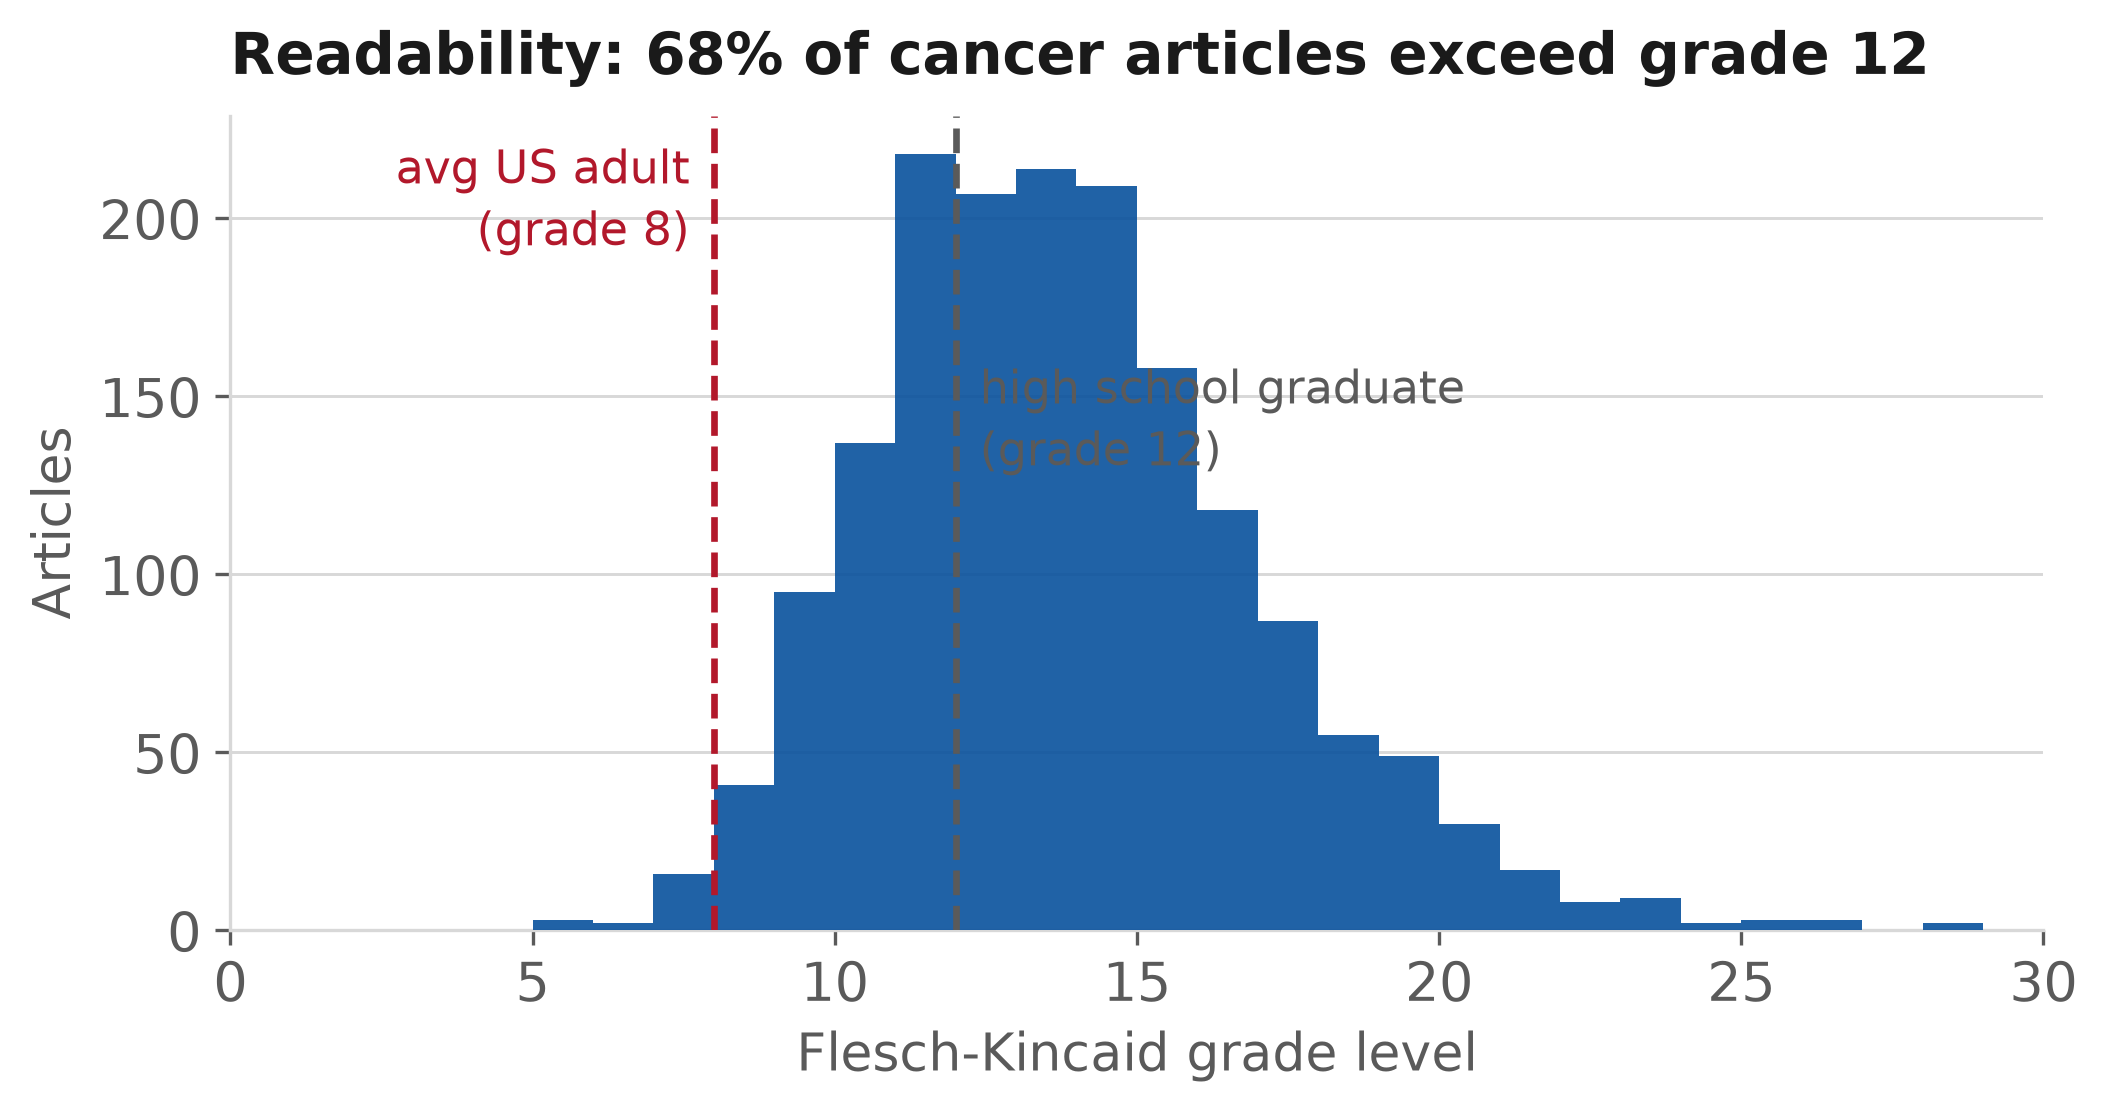
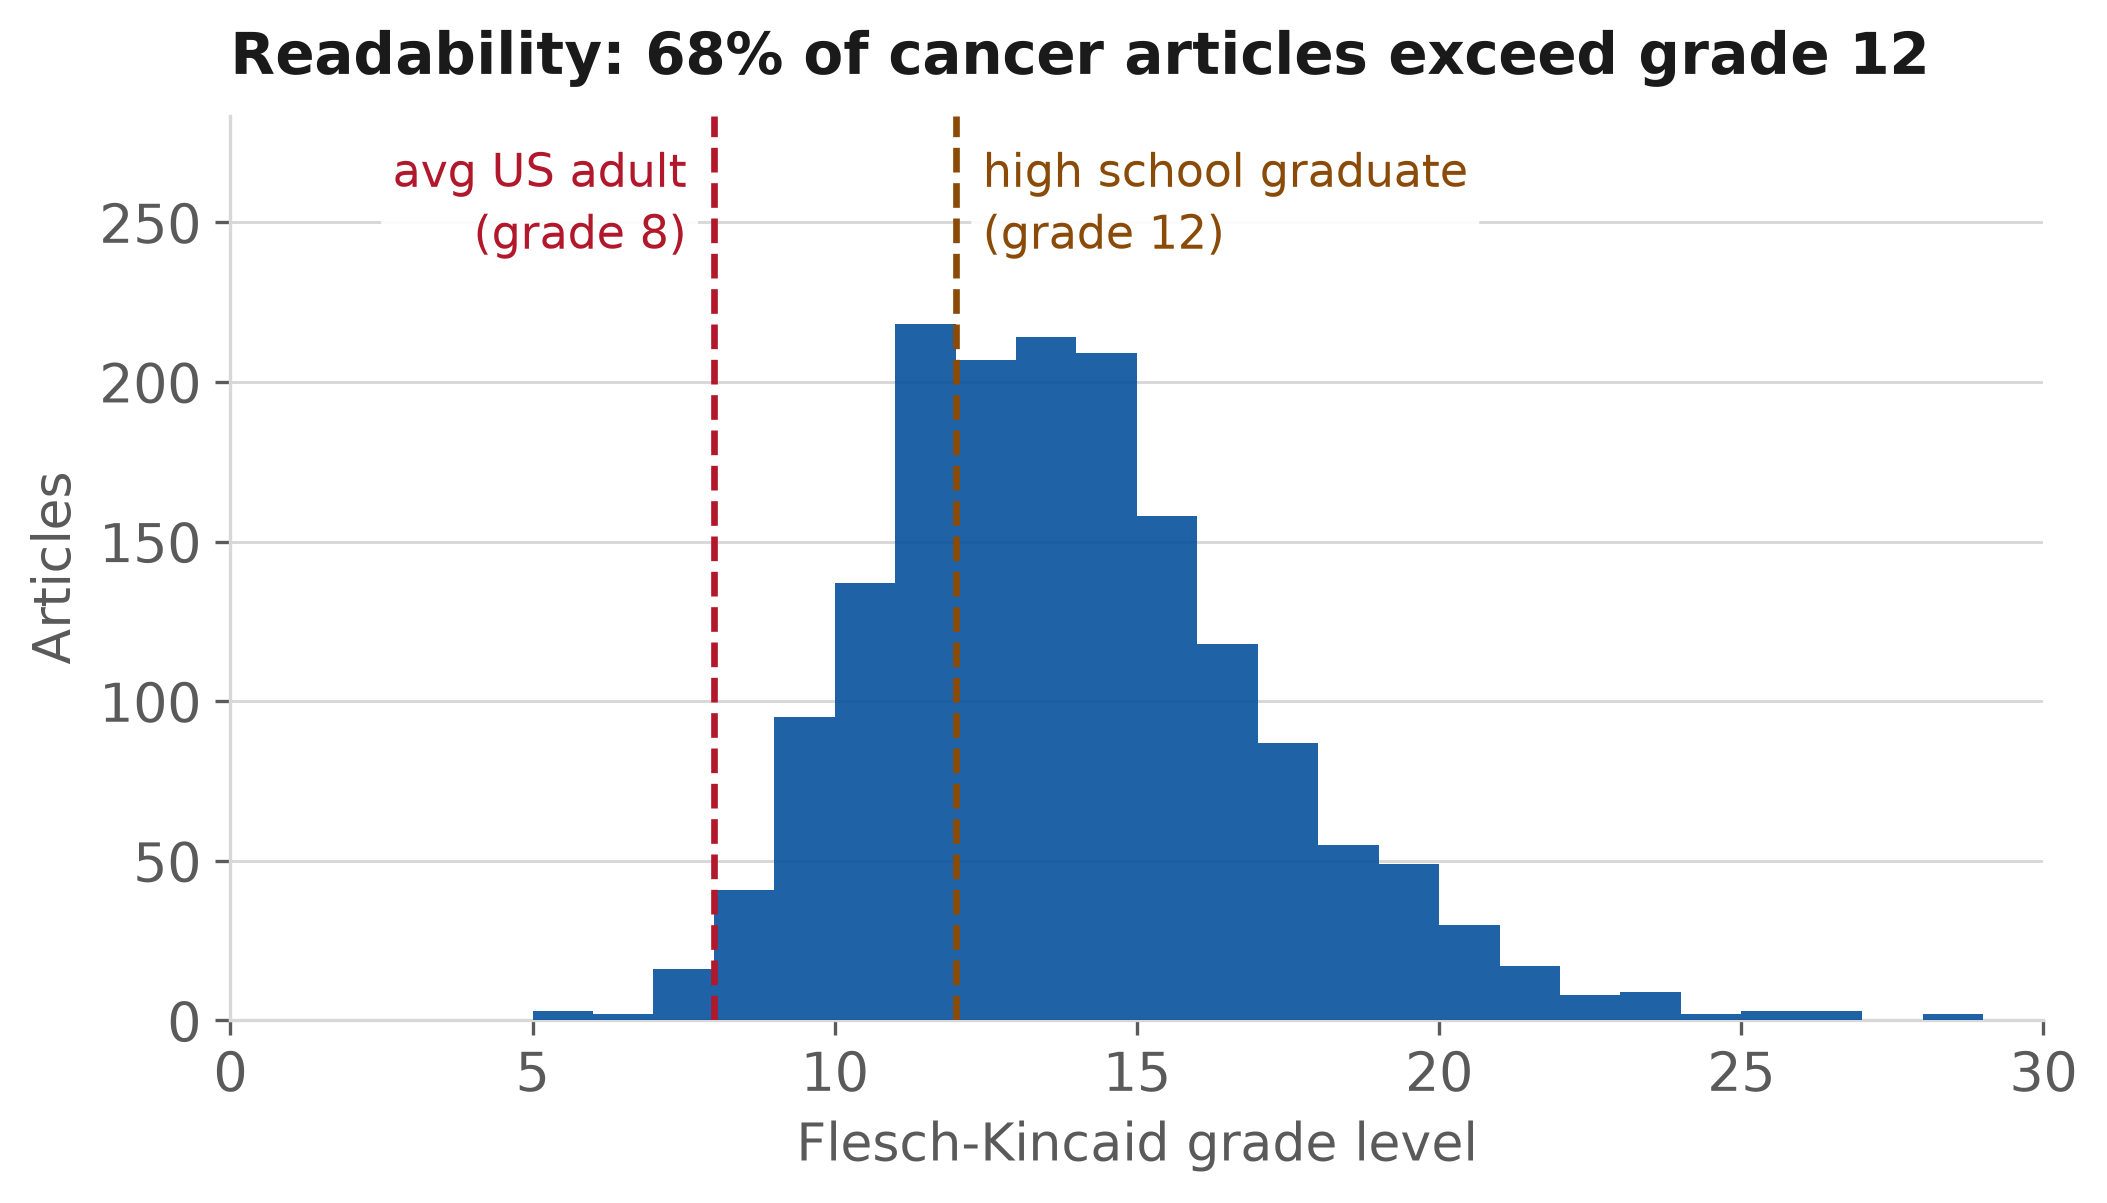
fix: make readability reference labels legible
The grade-12 label was grey (#5A5A5A) drawn over the dark blue histogram bars,
which left it effectively unreadable. Staggering the two labels vertically, as
the previous fix did, only relocated the collision rather than solving it.

Reserve 30% headroom above the tallest bar so both labels sit on clean surface,
give each a rounded surface-coloured bbox, and recolour grade 12 from grey to
#8A4B08 (6.79:1 on white) so it reads as a distinct reference line rather than
as axis furniture.

diff --git a/tools_make_nci_poster_figures.py b/tools_make_nci_poster_figures.py
@@ -264,17 +264,25 @@ def fig_readability(can):
     """Reading-grade distribution against comprehension benchmarks."""
     rl = can["reading_level"].dropna()
     rl = rl[(rl >= 0) & (rl <= 30)]
-    fig, ax = plt.subplots(figsize=(7.2, 3.9))
-    ax.hist(rl, bins=np.arange(0, 31, 1), color=SEQ_HUE, alpha=0.9, zorder=3)
-    # Stagger the two reference labels; at grade 8 vs 12 they collide otherwise.
-    ymax = ax.get_ylim()[1]
-    for g, lab, col, ha, dx, yfrac in [
-        (8, "avg US adult\n(grade 8)", "#B2182B", "right", -0.4, 0.97),
-        (12, "high school graduate\n(grade 12)", INK_MUTED, "left", 0.4, 0.70),
+    fig, ax = plt.subplots(figsize=(7.2, 4.2))
+    counts, _, _ = ax.hist(rl, bins=np.arange(0, 31, 1), color=SEQ_HUE,
+                           alpha=0.9, zorder=3)
+
+    # Reserve headroom above the tallest bar so both reference labels sit on
+    # clean surface. Placed over the bars they were grey-on-dark-blue and
+    # effectively unreadable; staggering them vertically only moved the problem.
+    peak = counts.max()
+    ax.set_ylim(0, peak * 1.30)
+    label_y = peak * 1.26
+    for g, lab, col, ha, dx in [
+        (8, "avg US adult\n(grade 8)", "#B2182B", "right", -0.45),
+        (12, "high school graduate\n(grade 12)", "#8A4B08", "left", 0.45),
     ]:
         ax.axvline(g, color=col, ls="--", lw=1.6, zorder=4)
-        ax.text(g + dx, ymax * yfrac, lab, fontsize=11,
-                color=col, va="top", ha=ha, linespacing=1.35)
+        ax.text(g + dx, label_y, lab, fontsize=11, weight="medium",
+                color=col, va="top", ha=ha, linespacing=1.35, zorder=6,
+                bbox=dict(facecolor=SURFACE, edgecolor="none",
+                          boxstyle="round,pad=0.25", alpha=0.92))
     pct = (rl > 12).mean() * 100
     ax.set_xlabel("Flesch-Kincaid grade level", fontsize=12.5, color=INK_MUTED)
     ax.set_ylabel("Articles", fontsize=12.5, color=INK_MUTED)
